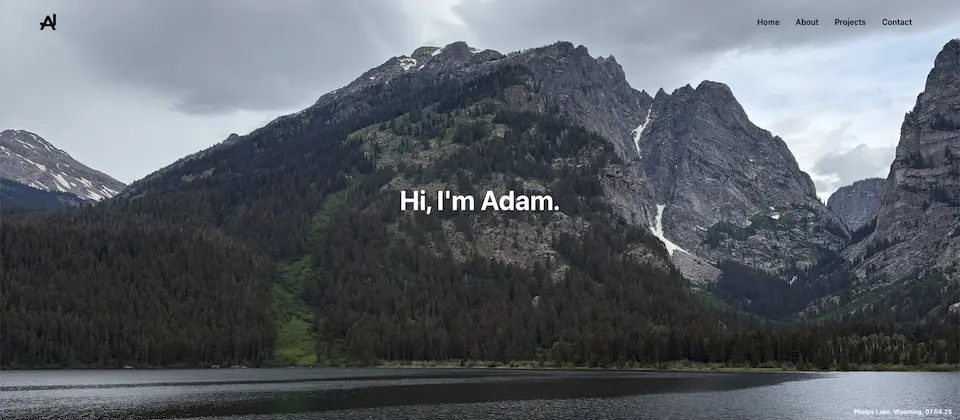
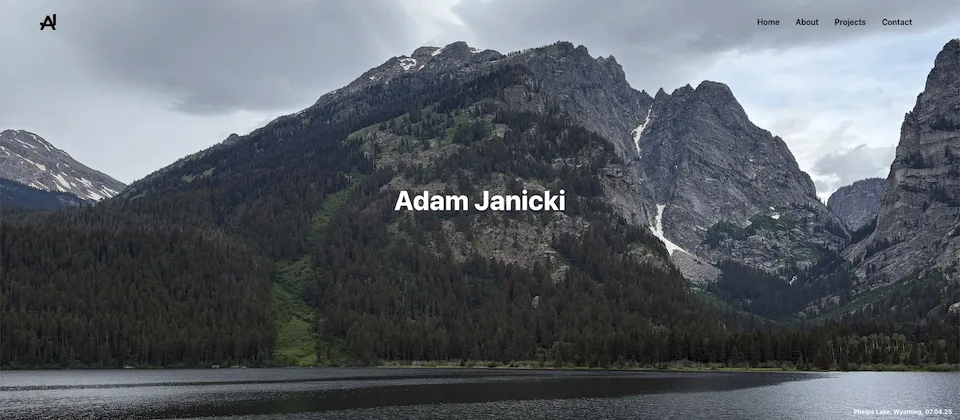
update image again

Changed region(s): [[0.4062, 0.4333, 0.5938, 0.5262]]

diff --git a/index.html b/index.html
@@ -1,4 +1,4 @@
-<!DOCTYPE html>
+<!doctype html>
 <html lang="en">
   <!-- 
               _                    
@@ -16,13 +16,15 @@
   <head>
     <meta charset="utf-8" />
     <link rel="icon" href="/favicon.ico" />
-    <meta name="viewport" content="width=device-width, initial-scale=1" />
-    <meta name="description" content="Adam Janicki's personal website." />
-    <meta name="og:title" content="Adam Janicki" />
-    <meta name="og:description" content="Adam Janicki's personal website." />
-    <meta name="og:image" content="/images/og-image.png" />
     <link rel="apple-touch-icon" href="/images/logo192.png" />
     <link rel="manifest" href="/manifest.json" />
+    <meta name="viewport" content="width=device-width, initial-scale=1" />
+    <meta name="description" content="Adam Janicki's website" />
+    <meta property="og:site_name" content="Adam Janicki" />
+    <meta property="og:title" content="Adam Janicki" />
+    <meta property="og:description" content="Adam Janicki's website" />
+    <meta property="og:image" content="/images/og-image.png" />
+    <meta property="og:type" content="website" />
     <title>Adam Janicki</title>
   </head>
   <body>

diff --git a/src/components/Home.tsx b/src/components/Home.tsx
@@ -7,11 +7,13 @@ export default function Home() {
   return (
     <Box
       id="home"
-      className="marquee white"
+      className="marquee"
       vfx={{ axis: "y", align: "center", justify: "between" }}
     >
       <Box />
-      <ui.h1 style={{ fontSize: "54px" }}>Adam Janicki</ui.h1>
+      <ui.h1 vfx={{ fontWeight: 8 }} style={{ color: "white", fontSize: 54 }}>
+        Adam Janicki
+      </ui.h1>
       <Box vfx={{ axis: "x", justify: "between", padding: "m", width: "full" }}>
         <Secret
           slug="star-wars-episode-iii-revenge-of-the-sith"

diff --git a/src/components/Caption.tsx b/src/components/Caption.tsx
@@ -8,7 +8,8 @@ export default function Caption(props: Props) {
   return (
     <ui.p
       vfx={{ margin: "none", fontSize: "xs", fontWeight: 7 }}
-      className="white blur"
+      style={{ color: "white" }}
+      className="blur"
       {...props}
     />
   );

diff --git a/src/css/style.css b/src/css/style.css
@@ -24,10 +24,6 @@ section {
   transition: color var(--aui-default-transition);
 }
 
-.white {
-  color: white;
-}
-
 .blur {
   backdrop-filter: blur(4px);
 }
